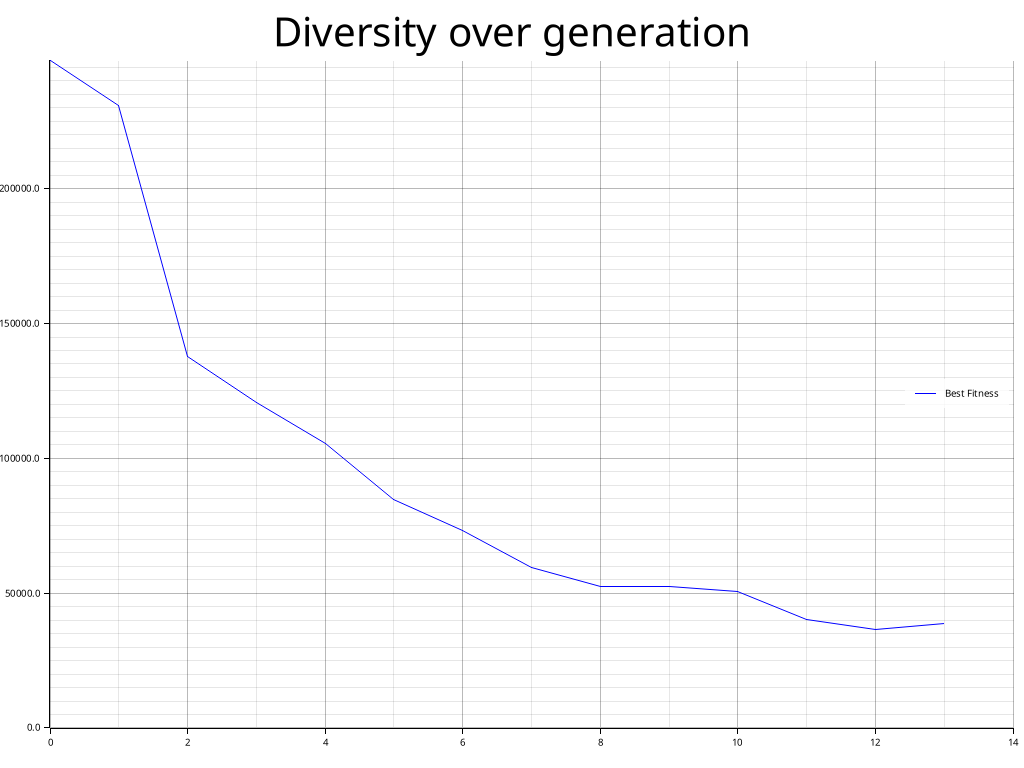
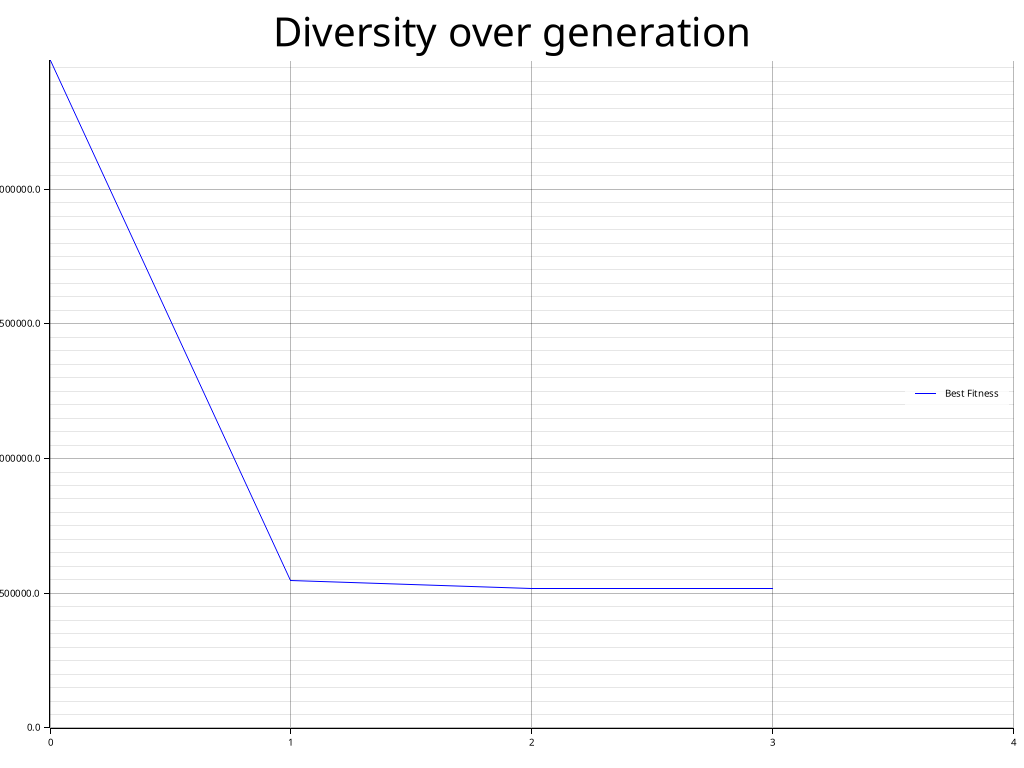
Increase features count and lower bound in genetic algorithm; switch to uniform crossover and enhance fitness evaluation logging

diff --git a/max-sum/src/main.rs b/max-sum/src/main.rs
@@ -5,8 +5,8 @@ use plotters::prelude::*;
 
 fn main() {
     let population_size = 100;
-    let features_count = 100;
-    let lower_bound = 90;
+    let features_count = 1000;
+    let lower_bound = 900;
     let mutation_rate = 0.01;
     let tournament_size = 10;
     let max_generations = 1000;
@@ -35,7 +35,7 @@ fn main() {
             .map(|i| {
                 let parent1 = &selected_population[i % selected_population.len()];
                 let parent2 = &selected_population[(i + 1) % selected_population.len()];
-                let (child1, _) = single_point_crossover(parent1, parent2);
+                let (child1, _) = uniform_crossover(parent1, parent2);
                 mutate(&child1, mutation_rate)
             })
             .collect();
@@ -48,17 +48,20 @@ fn main() {
             fitness_landscapes.insert(individual.clone(), fitness);
         }
 
+        generation += 1;
 
-        fitnest_value = *evaluate_population(&population)
+        if generation % 50 == 0 || generation == max_generations{
+            fitnest_value = *evaluate_population(&population)
             .par_iter()
             .max_by(|a, b| a.partial_cmp(b).unwrap())
             .unwrap();
-        generation += 1;
-
-        println!("Generation: {}, Fitness: {}", generation, fitnest_value);
-        fiteness_history.push(fitnest_value);
-        divesity_history.push(diversity_function(&population));
-        println!("Population: {:?}", population.len());
+        
+            println!("Generation: {}, Fitness: {}", generation, fitnest_value);
+            fiteness_history.push(fitnest_value);
+            divesity_history.push(diversity_function(&population));
+            println!("Population: {:?}", population.len());
+        }
+        
     }
 
     let best_individual = population
@@ -67,6 +70,16 @@ fn main() {
         .unwrap();
     println!("Best individual: {:?}", best_individual);
     println!("Fitness: {}", fitness_function(best_individual));
+
+    fitnest_value = *evaluate_population(&population)
+            .par_iter()
+            .max_by(|a, b| a.partial_cmp(b).unwrap())
+            .unwrap();
+        
+    println!("Generation: {}, Fitness: {}", generation, fitnest_value);
+    fiteness_history.push(fitnest_value);
+    divesity_history.push(diversity_function(&population));
+    println!("Population: {:?}", population.len());
 
     plot_graph(&fiteness_history, "fitness_history.png", "Fitnes Over Generation").unwrap();
     plot_graph(&divesity_history, "diversity_history.png", "Diversity over generation").unwrap();
@@ -96,7 +109,8 @@ fn generate_population(size: usize, features_count: usize) -> Vec<Vec<bool>> {
 /// # Returns
 /// The fitness value of the individual, calculated as the sum of its `true` values.
 fn fitness_function(individual: &Vec<bool>) -> f64 {
-    individual.iter().map(|&bit| if bit { 1.0 } else { 0.0 }).sum()
+    let feature_sum:f64 = individual.iter().map(|&bit| if bit { 1.0 } else { 0.0 }).sum();
+    feature_sum
 }
 
 /// Evaluates the fitness of an entire population in parallel.
@@ -141,27 +155,19 @@ fn tournament_selection(population: &Vec<Vec<bool>>, tournament_size: usize) -> 
         .collect()
 }
 
-/// Performs single-point crossover to generate two offspring from two parents.
+/// Applies uniform crossover to two parents to generate two children.
+/// The crossover is performed by randomly selecting bits from the two parents with equal probability.
 /// 
 /// # Parameters
 /// - `parent1`: A reference to the first parent.
 /// - `parent2`: A reference to the second parent.
 /// 
 /// # Returns
-/// A tuple containing two offspring, each represented as a vector of boolean values.
-fn single_point_crossover(parent1: &Vec<bool>, parent2: &Vec<bool>) -> (Vec<bool>, Vec<bool>) {
+/// A tuple containing the two children, each represented as a vector of boolean values.
+fn uniform_crossover(parent1: &Vec<bool>, parent2: &Vec<bool>) -> (Vec<bool>, Vec<bool>) {
     let mut rng = rand::thread_rng();
-    let crossover_point = rng.gen_range(0..parent1.len());
-    let child1 = parent1[..crossover_point]
-        .iter()
-        .chain(parent2[crossover_point..].iter())
-        .cloned()
-        .collect();
-    let child2 = parent2[..crossover_point]
-        .iter()
-        .chain(parent1[crossover_point..].iter())
-        .cloned()
-        .collect();
+    let child1: Vec<bool> = parent1.iter().zip(parent2.iter()).map(|(&a, &b)| if rng.gen_bool(0.5) { a } else { b }).collect();
+    let child2: Vec<bool> = parent1.iter().zip(parent2.iter()).map(|(&a, &b)| if rng.gen_bool(0.5) { b } else { a }).collect();
     (child1, child2)
 }
 
